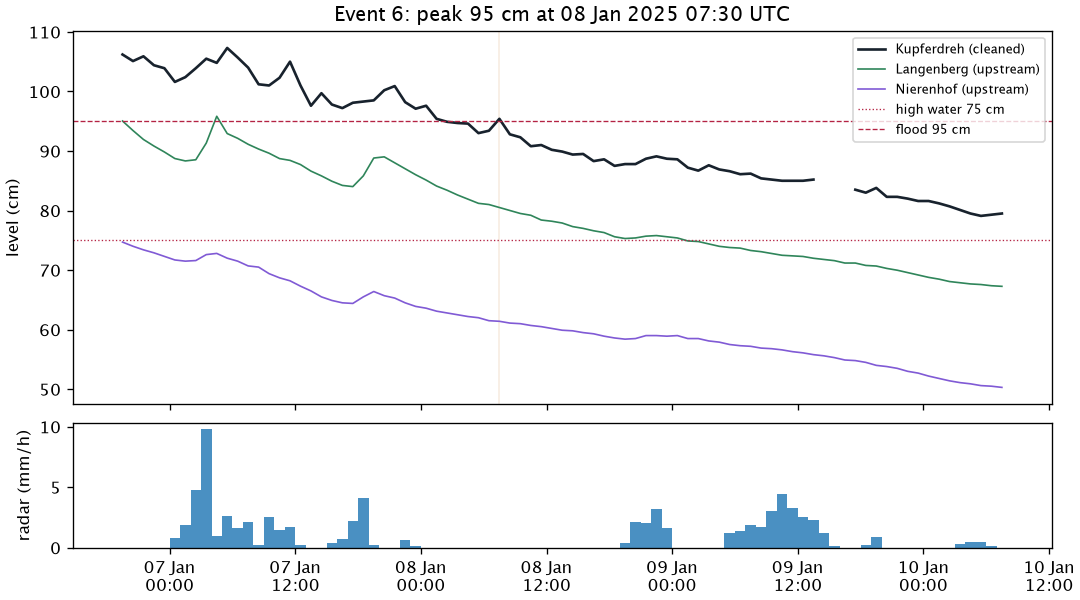
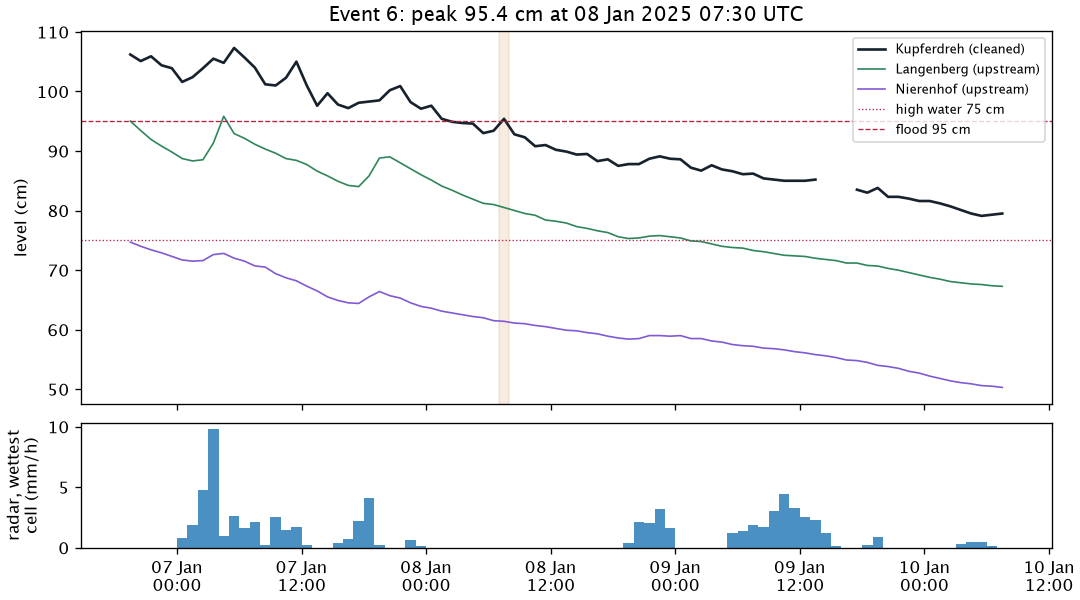
docs(evaluation): fix the radar label and event details from review
The catchment radar series is the wettest cell, not a mean, so the plots
and the table say so. The 48 h sum covered 49 hours; the event span had
no width for a one-hour event; peaks now show one decimal, so event 6
no longer reads as exactly 95 cm. The doc links the 8 events to the 6
first crossings counted in decision 0008.

diff --git a/analysis/model-evaluation/methodology_plots.py b/analysis/model-evaluation/methodology_plots.py
@@ -88,7 +88,7 @@ def split_plot(observed: pd.Series, floods: pd.DataFrame, settings, path: Path) 
 def event_plot(
     number: int, flood, dataset: pd.DataFrame, observed: pd.Series, settings, path: Path
 ) -> None:
-    """One flood: Kupferdreh, the upstream gauges and radar rain over the catchment."""
+    """One flood: Kupferdreh, the upstream gauges and radar rain in the wettest catchment cell."""
     start, end = flood.start - pd.Timedelta(hours=36), flood.end + pd.Timedelta(hours=48)
     rows = dataset.set_index(contract.ISSUED_AT).loc[start:end]
     figure, (top, bottom) = plt.subplots(
@@ -122,14 +122,14 @@ def event_plot(
     top.axhline(
         settings.flood_cm, color="#b42343", linewidth=0.8, linestyle="--", label="flood 95 cm"
     )
-    top.axvspan(flood.start, flood.end, color=TEST, alpha=0.12)
+    top.axvspan(flood.start - HOUR / 2, flood.end + HOUR / 2, color=TEST, alpha=0.12)
     top.set_ylabel("level (cm)")
     top.set_title(
-        f"Event {number}: peak {flood.peak_cm:.0f} cm at {flood.peak_at:%d %b %Y %H:%M} UTC"
+        f"Event {number}: peak {flood.peak_cm:.1f} cm at {flood.peak_at:%d %b %Y %H:%M} UTC"
     )
     top.legend(fontsize=8, loc="upper right")
     bottom.bar(rows.index, rows["radar_catchment_lag_0"], width=1 / 24, color=RAIN)
-    bottom.set_ylabel("radar (mm/h)")
+    bottom.set_ylabel("radar, wettest\ncell (mm/h)")
     bottom.xaxis.set_major_formatter(mdates.DateFormatter("%d %b\n%H:%M"))
     figure.savefig(path, dpi=120)
     plt.close(figure)
@@ -175,10 +175,10 @@ def event_table(floods: pd.DataFrame, dataset: pd.DataFrame) -> pd.DataFrame:
                 "fold": next(name for name, (a, b) in fold_of.items() if a <= flood.peak_at < b),
                 "above 95 cm from (UTC)": f"{flood.start:%Y-%m-%d %H:%M}",
                 "to (UTC)": f"{flood.end:%Y-%m-%d %H:%M}",
-                "peak (cm)": round(flood.peak_cm),
+                "peak (cm)": round(flood.peak_cm, 1),
                 "peak at (UTC)": f"{flood.peak_at:%Y-%m-%d %H:%M}",
-                "radar rain 48 h before peak (mm)": round(
-                    radar[flood.peak_at - pd.Timedelta(hours=48) : flood.peak_at].sum(), 1
+                "radar, wettest cell, 48 h to peak (mm)": round(
+                    radar[flood.peak_at - pd.Timedelta(hours=47) : flood.peak_at].sum(), 1
                 ),
             }
         )

diff --git a/docs/evaluation-methodology.md b/docs/evaluation-methodology.md
@@ -46,58 +46,58 @@ Every score is computed twice:
 
 A flood event is a time above 95 cm. Spells above 95 cm whose peaks are less than 24 hours apart are merged into one event. Only events in the test periods are scored (`src/pegel/evaluation/events.py`).
 
-| event | fold | above 95 cm from (UTC) | to (UTC) | peak (cm) | peak at (UTC) | radar rain 48 h before peak (mm) |
+| event | fold | above 95 cm from (UTC) | to (UTC) | peak (cm) | peak at (UTC) | radar, wettest cell, 48 h to peak (mm) |
 |---|---|---|---|---|---|---|
-| 1 | F1 | 2024-10-10 00:30 | 2024-10-10 08:30 | 121 | 2024-10-10 02:30 | 63.2 |
-| 2 | F1 | 2024-11-19 10:30 | 2024-11-20 20:30 | 165 | 2024-11-19 17:30 | 118.4 |
-| 3 | F1 | 2024-12-06 04:30 | 2024-12-06 05:30 | 97 | 2024-12-06 05:30 | 36.4 |
-| 4 | F1 | 2024-12-22 01:30 | 2024-12-22 15:30 | 98 | 2024-12-22 13:30 | 46.2 |
-| 5 | F2 | 2025-01-05 17:30 | 2025-01-08 01:30 | 125 | 2025-01-05 23:30 | 44.9 |
-| 6 | F2 | 2025-01-08 07:30 | 2025-01-08 07:30 | 95 | 2025-01-08 07:30 | 46.3 |
-| 7 | F2 | 2025-01-25 06:30 | 2025-01-26 22:30 | 105 | 2025-01-26 04:30 | 46.5 |
-| 8 | F2 | 2025-01-27 04:30 | 2025-01-27 06:30 | 96 | 2025-01-27 06:30 | 34.5 |
+| 1 | F1 | 2024-10-10 00:30 | 2024-10-10 08:30 | 120.7 | 2024-10-10 02:30 | 62.2 |
+| 2 | F1 | 2024-11-19 10:30 | 2024-11-20 20:30 | 165.0 | 2024-11-19 17:30 | 118.4 |
+| 3 | F1 | 2024-12-06 04:30 | 2024-12-06 05:30 | 97.3 | 2024-12-06 05:30 | 36.4 |
+| 4 | F1 | 2024-12-22 01:30 | 2024-12-22 15:30 | 97.8 | 2024-12-22 13:30 | 46.2 |
+| 5 | F2 | 2025-01-05 17:30 | 2025-01-08 01:30 | 125.4 | 2025-01-05 23:30 | 44.6 |
+| 6 | F2 | 2025-01-08 07:30 | 2025-01-08 07:30 | 95.4 | 2025-01-08 07:30 | 46.3 |
+| 7 | F2 | 2025-01-25 06:30 | 2025-01-26 22:30 | 105.0 | 2025-01-26 04:30 | 46.5 |
+| 8 | F2 | 2025-01-27 04:30 | 2025-01-27 06:30 | 96.2 | 2025-01-27 06:30 | 33.9 |
 
-Events 6 and 8 follow another event within hours. They count as events for peak errors, but not as first crossings for warnings (no hour above 95 cm in the 24 hours before). That is why the warning tables have 6 crossings at 95 cm, not 8. Only event 2 crosses the first category bound, 145 cm.
+Events 6 and 8 follow another event within hours. They count as events for peak errors, but not as first crossings for warnings (no hour above 95 cm in the 24 hours before). That is why the warning tables have 6 crossings at 95 cm, not 8. At 95 cm there are 10 crossings in the test periods in all; 6 are first crossings. Only event 2 crosses the first category bound, 145 cm.
 
-Each plot shows the event from 36 hours before it starts to 48 hours after it ends. Top: the cleaned Kupferdreh level and the two upstream gauges, with the time above 95 cm shaded. Bottom: radar rain, the hourly mean over the catchment.
+Each plot shows the event from 36 hours before it starts to 48 hours after it ends. Top: the cleaned Kupferdreh level and the two upstream gauges, with the time above 95 cm shaded. Bottom: hourly radar rain in the wettest radar cell of the catchment (the dataset's `catchment` series is the cell maximum, not a mean). In the 48 hours before event 2 the zone means got 47 to 70 mm, the wettest cell 118 mm.
 
-### Event 1 · 10 Oct 2024, 121 cm
+### Event 1 · 10 Oct 2024, 120.7 cm
 
 ![Event 1](images/evaluation-methodology/event-1-2024-10-10.png)
 
-### Event 2 · 19 Nov 2024, 165 cm
+### Event 2 · 19 Nov 2024, 165.0 cm
 
 The largest flood in the window and the only one above 145 cm. ICON-D2 badly underforecast its rain.
 
 ![Event 2](images/evaluation-methodology/event-2-2024-11-19.png)
 
-### Event 3 · 6 Dec 2024, 97 cm
+### Event 3 · 6 Dec 2024, 97.3 cm
 
 ![Event 3](images/evaluation-methodology/event-3-2024-12-06.png)
 
-### Event 4 · 22 Dec 2024, 98 cm
+### Event 4 · 22 Dec 2024, 97.8 cm
 
 ![Event 4](images/evaluation-methodology/event-4-2024-12-22.png)
 
-### Event 5 · 5 Jan 2025, 125 cm
+### Event 5 · 5 Jan 2025, 125.4 cm
 
 Above 95 cm for more than two days.
 
 ![Event 5](images/evaluation-methodology/event-5-2025-01-05.png)
 
-### Event 6 · 8 Jan 2025, 95 cm
+### Event 6 · 8 Jan 2025, 95.4 cm
 
-A one-hour return to 95 cm six hours after event 5 dropped below.
+A one-hour return above 95 cm, six hours after the last hour above 95 cm in event 5.
 
 ![Event 6](images/evaluation-methodology/event-6-2025-01-08.png)
 
-### Event 7 · 26 Jan 2025, 105 cm
+### Event 7 · 26 Jan 2025, 105.0 cm
 
 ![Event 7](images/evaluation-methodology/event-7-2025-01-26.png)
 
-### Event 8 · 27 Jan 2025, 96 cm
+### Event 8 · 27 Jan 2025, 96.2 cm
 
-A second peak six hours after event 7 dropped below.
+A second peak, six hours after the last hour above 95 cm in event 7.
 
 ![Event 8](images/evaluation-methodology/event-8-2025-01-27.png)
 
@@ -115,6 +115,6 @@ A model wins over a simpler one when its mean MAE over leads 1 to 24 is lower in
 
 ## Limits
 
-- Eight flood events, all in winter, and no summer thunderstorm flood. Differences of one or two warnings mean nothing.
+- Eight flood events (6 first crossings of 95 cm, the count in decision 0008), all in winter, and no summer thunderstorm flood. Differences of one or two warnings mean nothing.
 - Training and test both use the day-old ICON-D2 archive. Live forecasts get fresher rain forecasts, so the live shadow run has the final say.
 - Picking the best of many models on the same folds overfits them a little. The live shadow run checks this too.
